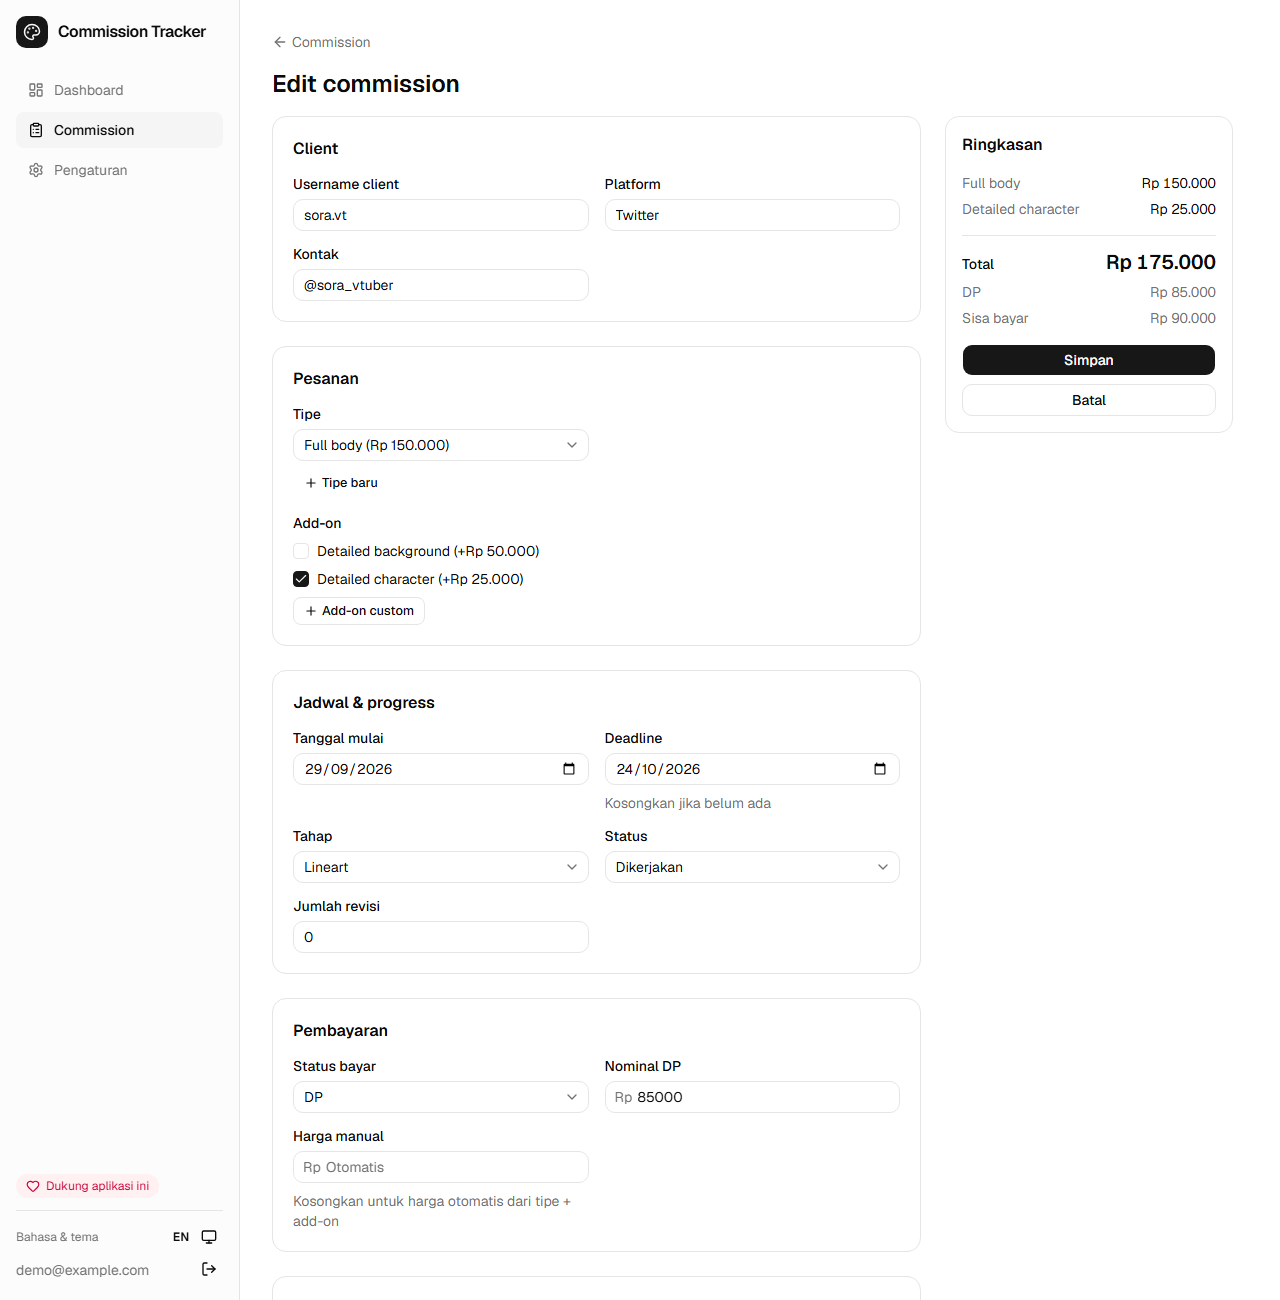
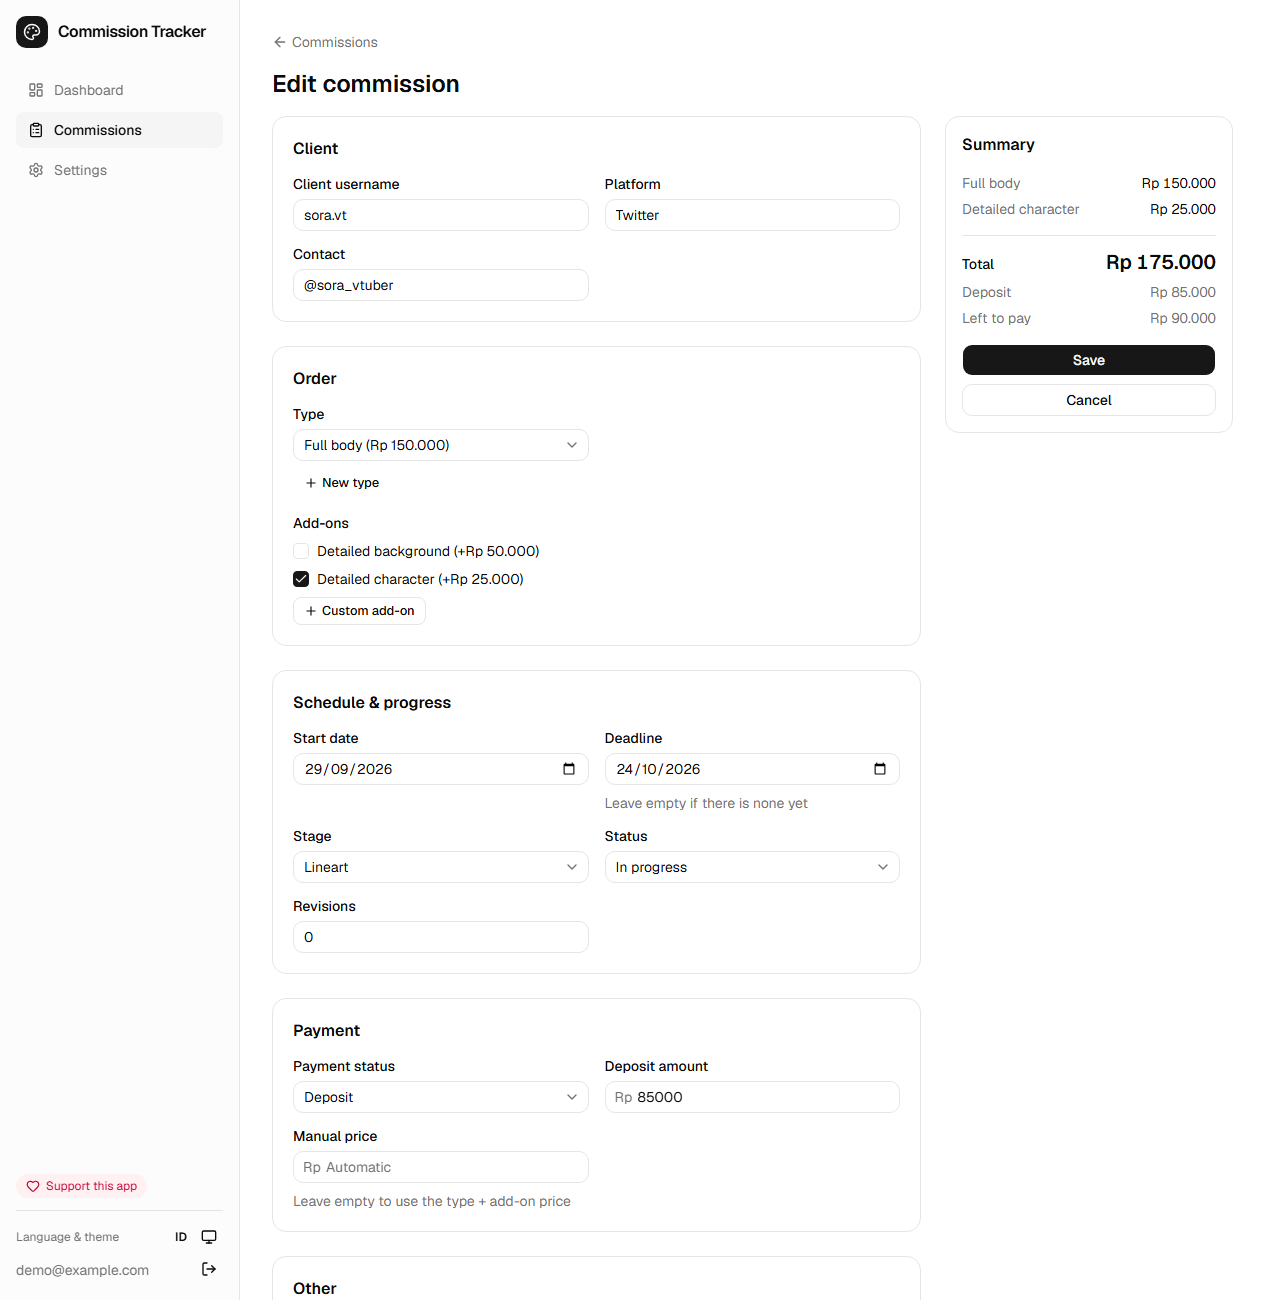
docs: auth email templates, setup notes, and EN screenshots
Claude-Session: https://claude.ai/code/session_01EBEVSgQxVJZaLCzvFkusW7

diff --git a/supabase/templates/recovery.html b/supabase/templates/recovery.html
@@ -1,0 +1,14 @@
+<!-- Supabase → Authentication → Emails → "Reset password".
+     Subject: Reset password Commission Tracker · Reset your password -->
+<div style="font-family: system-ui, -apple-system, Segoe UI, sans-serif; max-width: 480px; margin: 0 auto; padding: 24px; color: #171717">
+  <p style="font-size: 18px; font-weight: 600; margin: 0 0 16px">Commission Tracker</p>
+
+  <p style="margin: 0 0 12px">Seseorang meminta reset password untuk akun ini. Klik tombol di bawah untuk membuat password baru.</p>
+  <p style="margin: 0 0 24px; color: #737373; font-size: 14px">Someone asked to reset the password for this account. Click the button below to set a new password.</p>
+
+  <p style="margin: 0 0 24px">
+    <a href="{{ .ConfirmationURL }}" style="display: inline-block; background: #171717; color: #fafafa; text-decoration: none; padding: 10px 18px; border-radius: 8px; font-weight: 500">Buat password baru · Set new password</a>
+  </p>
+
+  <p style="margin: 0; color: #737373; font-size: 13px">Kalau kamu tidak memintanya, abaikan email ini. Password kamu tidak berubah.<br />If you did not ask for this, ignore this email. Your password stays the same.</p>
+</div>

diff --git a/supabase/templates/confirmation.html b/supabase/templates/confirmation.html
@@ -1,0 +1,14 @@
+<!-- Supabase → Authentication → Emails → "Confirm signup".
+     Subject: Konfirmasi akun Commission Tracker · Confirm your account -->
+<div style="font-family: system-ui, -apple-system, Segoe UI, sans-serif; max-width: 480px; margin: 0 auto; padding: 24px; color: #171717">
+  <p style="font-size: 18px; font-weight: 600; margin: 0 0 16px">Commission Tracker</p>
+
+  <p style="margin: 0 0 12px">Halo! Klik tombol di bawah untuk mengonfirmasi email dan mulai mencatat commission kamu.</p>
+  <p style="margin: 0 0 24px; color: #737373; font-size: 14px">Hi! Click the button below to confirm your email and start tracking your commissions.</p>
+
+  <p style="margin: 0 0 24px">
+    <a href="{{ .ConfirmationURL }}" style="display: inline-block; background: #171717; color: #fafafa; text-decoration: none; padding: 10px 18px; border-radius: 8px; font-weight: 500">Konfirmasi email · Confirm email</a>
+  </p>
+
+  <p style="margin: 0; color: #737373; font-size: 13px">Kalau kamu tidak mendaftar, abaikan email ini.<br />If you did not sign up, ignore this email.</p>
+</div>

diff --git a/README.md b/README.md
@@ -21,6 +21,7 @@ A free web app for illustrators who take art commissions. Track every order from
 - A private tracking link per commission: current stage, place in the waiting list, what the artist is working on (without other clients' names), and an estimated finish date based on the artist's pace. No prices or contact details.
 
 **Everywhere**
+- A public landing page, a privacy page, and self-service account deletion (data and images).
 - Indonesian and English, switchable on every page, including the client tracking page.
 - Light, dark, or system theme.
 - Works on phones and desktops.
@@ -29,9 +30,9 @@ A free web app for illustrators who take art commissions. Track every order from
 |---|---|
 | ![Board](docs/screenshots/board.png) | ![Commission form](docs/screenshots/commission-form.png) |
 
-| Dashboard, dark | Client tracking (ID) | Client tracking (EN, dark) |
+| Dashboard, dark | Client tracking | Client tracking, dark |
 |---|---|---|
-| ![Dashboard dark](docs/screenshots/dashboard-dark.png) | ![Tracking ID](docs/screenshots/tracking-mobile-id.png) | ![Tracking EN](docs/screenshots/tracking-mobile-en-dark.png) |
+| ![Dashboard dark](docs/screenshots/dashboard-dark.png) | ![Client tracking](docs/screenshots/tracking-mobile.png) | ![Client tracking dark](docs/screenshots/tracking-mobile-dark.png) |
 
 ## Stack
 
@@ -77,6 +78,10 @@ Open http://localhost:3000 and sign up. New accounts get default order types, ad
 
 **Optional demo data:** sign up as `demo@example.com`, then run `supabase/demo/seed.sql` against your database (for example with `psql "$SUPABASE_DB_URL" -f supabase/demo/seed.sql`). It adds fictional commissions with dates relative to today.
 
+### Auth emails
+
+`supabase/templates/` holds bilingual (Indonesian + English) emails for sign-up confirmation and password reset. Paste each file into Supabase → Authentication → Emails, with the subject line written at the top of the file. In Authentication → URL Configuration, set the Site URL to your deployed URL and add `<your-url>/auth/confirm` to the redirect URLs.
+
 ### Checks
 
 ```bash
@@ -85,7 +90,7 @@ npm test            # unit tests: pricing, stats, queue estimate, dates, formatt
 npm run build
 ```
 
-SQL tests for RLS, saving, tracking, queue, and WIP images are in `supabase/tests/`. Each one runs inside a transaction and rolls back.
+SQL tests for RLS, saving, tracking, queue, WIP images, and account deletion are in `supabase/tests/`. Each one runs inside a transaction and rolls back.
 
 ## Deploy
 

diff --git a/CLAUDE.md b/CLAUDE.md
@@ -31,7 +31,7 @@ Next.js (App Router), TypeScript, Tailwind, shadcn/ui, TanStack Table, Recharts,
 
 ## Keamanan
 - RLS aktif di semua tabel; jangan matikan. Policy = pemilik (`user_id = auth.uid()`) + `has_access()` (= sudah login; aplikasi gratis).
-- Semua route kecuali `/login`, `/signup`, `/forgot-password`, `/auth/*`, `/track/[code]`, `/donasi` wajib login. `proxy.ts` (Next 16, pengganti middleware) hanya untuk UX, gerbang sebenarnya di RLS.
+- Semua route kecuali `/` (landing), `/login`, `/signup`, `/forgot-password`, `/auth/*`, `/track/[code]`, `/donasi`, `/privacy` wajib login. `proxy.ts` (Next 16, pengganti middleware) hanya untuk UX, gerbang sebenarnya di RLS.
 - Secret key (`SUPABASE_SECRET_KEY`) hanya di `lib/supabase/admin.ts` untuk tugas sistem (cron); jangan dipakai untuk request user atau di kode client.
 - Gambar WIP: logika Storage hanya di `lib/storage.ts`; setiap `remove()` cek jumlah file terhapus.
 - Halaman publik `/track/[code]` hanya membaca lewat fungsi `get_tracking(code)` (satu commission per kode, tanpa harga/kontak). Jangan beri `anon` akses ke tabel atau view.

diff --git a/database.md b/database.md
@@ -328,3 +328,7 @@ Aplikasi tidak berbayar (didukung donasi QRIS). `has_access()` kini hanya `auth.
 - `get_tracking` mengembalikan `wip` (path, nama tahap, waktu; terbaru dulu). URL publik dibangun di `lib/storage.ts`.
 - Hapus commission/gambar: file di Storage dihapus lebih dulu (cascade hanya menghapus baris).
 - Pembersihan: Vercel Cron harian `/api/cron/cleanup-wip` (dilindungi `CRON_SECRET`, memakai `SUPABASE_SECRET_KEY` di server) menghapus WIP dari commission yang selesai > 30 hari.
+
+## Hapus Akun
+
+`delete_own_account()` (`security definer`, migration `20261015150000`, hanya role `authenticated`) menghapus commission milik `auth.uid()` lebih dulu, lalu baris `auth.users`; tabel lain ikut terhapus lewat `on delete cascade`. Urutan ini perlu karena `stages` dilindungi `on delete restrict` dari `commissions` dan `wip_images`. File WIP di Storage tidak ikut cascade: server action `deleteAccount` menghapusnya lewat Storage API sebelum memanggil fungsi ini dan mengecek jumlah file terhapus. Tes: `supabase/tests/delete_account.sql`.

diff --git a/plan.md b/plan.md
@@ -154,6 +154,13 @@ TrackerCommis/
 - [x] Dark mode (terang / gelap / ikuti sistem)
 - [x] Pilihan bahasa Indonesia / English (termasuk halaman tracking client)
 
+### Milestone 9 — Siap dibagikan
+- [x] Landing page di `/` (user yang sudah login diarahkan ke dashboard)
+- [x] Halaman `/privacy`
+- [x] Hapus akun sendiri (Pengaturan → Umum), termasuk file WIP di Storage
+- [x] Template email konfirmasi & reset password dua bahasa (`supabase/templates/`)
+- [ ] Pasang template email di dashboard Supabase (manual)
+
 Estimasi total: sekitar 11-12 hari kerja santai.
 
 ## 6. Aturan Bisnis
